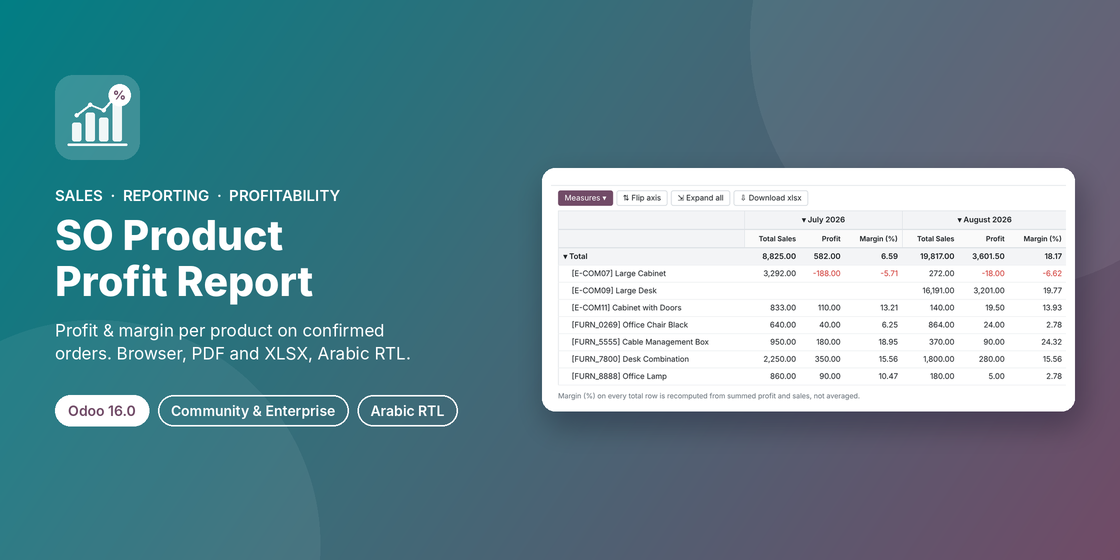
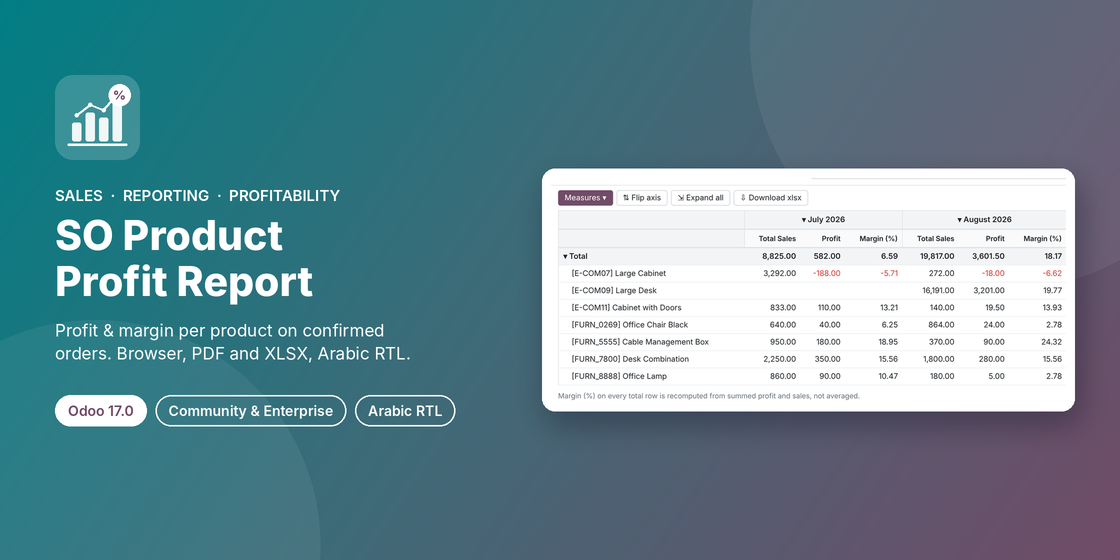
[MIG] so_product_profit_report: migration to 17.0
Claude-Session: https://claude.ai/code/session_0163j7pRJTYiZLoVRUF4UMFU

Changed region(s): [[0.0938, 0.6982, 0.4062, 0.7589], [0.5, 0.2732, 0.6875, 0.3036]]

diff --git a/so_product_profit_report/static/description/index.html b/so_product_profit_report/static/description/index.html
@@ -1,4 +1,4 @@
-<!-- Odoo Apps description page for so_product_profit_report (Odoo 16.0). Inline styles only: apps.odoo.com strips <style> and <script> blocks. -->
+<!-- Odoo Apps description page for so_product_profit_report (Odoo 17.0). Inline styles only: apps.odoo.com strips <style> and <script> blocks. -->
 <section style="max-width:1120px;margin:0 auto;padding:0 16px;font-family:-apple-system,BlinkMacSystemFont,'Segoe UI',Roboto,'Helvetica Neue',Arial,sans-serif;color:#2b2b33;">
 
 <!-- ============================== HERO ============================== -->
@@ -7,9 +7,9 @@
   <h1 style="font-size:40px;line-height:1.15;font-weight:700;margin:0 0 14px;color:#ffffff;">SO Product Profit Report</h1>
   <p style="font-size:19px;line-height:1.55;max-width:760px;margin:0 0 24px;color:#ffffff;opacity:.95;">See exactly how much every product earns on your confirmed sales orders: cost, sale price, profit and margin&nbsp;% per line, with correct subtotals. Open it on screen, print a clean PDF, or export to Excel &ndash; in English or Arabic with full right-to-left layout.</p>
   <div>
-    <span style="display:inline-block;border:1px solid rgba(255,255,255,.7);border-radius:20px;padding:6px 14px;margin:0 8px 8px 0;font-size:14px;">Odoo 16.0</span>
+    <span style="display:inline-block;border:1px solid rgba(255,255,255,.7);border-radius:20px;padding:6px 14px;margin:0 8px 8px 0;font-size:14px;">Odoo 17.0</span>
     <span style="display:inline-block;border:1px solid rgba(255,255,255,.7);border-radius:20px;padding:6px 14px;margin:0 8px 8px 0;font-size:14px;">Community &amp; Enterprise</span>
-    <span style="display:inline-block;border:1px solid rgba(255,255,255,.7);border-radius:20px;padding:6px 14px;margin:0 8px 8px 0;font-size:14px;">22 automated tests</span>
+    <span style="display:inline-block;border:1px solid rgba(255,255,255,.7);border-radius:20px;padding:6px 14px;margin:0 8px 8px 0;font-size:14px;">23 automated tests</span>
     <span style="display:inline-block;border:1px solid rgba(255,255,255,.7);border-radius:20px;padding:6px 14px;margin:0 8px 8px 0;font-size:14px;">Arabic (ar_001) &amp; RTL</span>
     <span style="display:inline-block;border:1px solid rgba(255,255,255,.7);border-radius:20px;padding:6px 14px;margin:0 8px 8px 0;font-size:14px;">Technical name: so_product_profit_report</span>
     <span style="display:inline-block;border:1px solid rgba(255,255,255,.7);border-radius:20px;padding:6px 14px;margin:0 8px 8px 0;font-size:14px;">LGPL-3</span>
@@ -29,7 +29,7 @@
 <p style="font-size:16px;color:#555;margin:0 0 18px;">Standard Odoo knows your cost and your sale price, but turning them into a profit report you can hand to management takes manual work.</p>
 <div style="display:flex;flex-wrap:wrap;margin:0 -10px;">
   <div style="flex:1 1 440px;margin:10px;border:1px solid #f1d6d6;background:#fff8f8;border-radius:14px;padding:24px 26px;">
-    <h3 style="font-size:19px;font-weight:700;color:#b33939;margin:0 0 12px;">In standard Odoo 16</h3>
+    <h3 style="font-size:19px;font-weight:700;color:#b33939;margin:0 0 12px;">In standard Odoo 17</h3>
     <ul style="font-size:15px;line-height:1.65;margin:0;padding-left:20px;color:#3a3a42;">
       <li><b>Sales Analysis</b> shows margin as an amount, without a line-by-line view of <b>cost price, sale price and margin&nbsp;%</b> together.</li>
       <li>There is <b>no printable profit report</b> with company header, KPIs and subtotals.</li>
@@ -141,7 +141,7 @@
   <div style="flex:1 1 320px;margin:8px;padding:16px 18px;border:1px solid #e8e8ee;border-radius:12px;"><b>Multi-company</b><br/><span style="color:#555;">Only companies you are allowed to see; selecting companies with different currencies is refused rather than adding unlike amounts.</span></div>
   <div style="flex:1 1 320px;margin:8px;padding:16px 18px;border:1px solid #e8e8ee;border-radius:12px;"><b>Time zones</b><br/><span style="color:#555;">Start and end dates are whole days in the user&rsquo;s time zone; the end date is inclusive.</span></div>
   <div style="flex:1 1 320px;margin:8px;padding:16px 18px;border:1px solid #e8e8ee;border-radius:12px;"><b>Company customers</b><br/><span style="color:#555;">Filtering on a company also includes orders placed by its contacts.</span></div>
-  <div style="flex:1 1 320px;margin:8px;padding:16px 18px;border:1px solid #e8e8ee;border-radius:12px;"><b>Only real sales</b><br/><span style="color:#555;">Quotations and cancelled orders are excluded, as are section and note lines and down-payment lines.</span></div>
+  <div style="flex:1 1 320px;margin:8px;padding:16px 18px;border:1px solid #e8e8ee;border-radius:12px;"><b>Only real sales</b><br/><span style="color:#555;">Quotations and cancelled orders are excluded, as are section and note lines and down-payment lines. Locked orders are included, and an optional <b>Locked</b> column shows which ones they are.</span></div>
   <div style="flex:1 1 320px;margin:8px;padding:16px 18px;border:1px solid #e8e8ee;border-radius:12px;"><b>Discounts and losses</b><br/><span style="color:#555;">Sale price is net of discount; negative profit and margin are shown in red and findable with <b>Loss Lines</b>.</span></div>
   <div style="flex:1 1 320px;margin:8px;padding:16px 18px;border:1px solid #e8e8ee;border-radius:12px;"><b>Missing cost or zero sales</b><br/><span style="color:#555;"><b>Missing Cost</b> lists lines without a cost; a line with zero sales shows a 0&nbsp;% margin instead of an error.</span></div>
   <div style="flex:1 1 320px;margin:8px;padding:16px 18px;border:1px solid #e8e8ee;border-radius:12px;"><b>Large data</b><br/><span style="color:#555;">PDF and Excel read all lines in a single SQL query that still applies access rights and record rules; an index on order state, date and company is added.</span></div>
@@ -165,13 +165,13 @@
 <h2 style="font-size:28px;font-weight:700;margin:48px 0 6px;color:#2b2b33;">Technical details</h2>
 <table style="width:100%;border-collapse:collapse;font-size:15px;margin-top:12px;">
   <tbody>
-    <tr style="border-bottom:1px solid #eee;"><td style="padding:10px 14px;width:240px;color:#777;vertical-align:top;">Odoo version</td><td style="padding:10px 14px;overflow-wrap:anywhere;word-break:break-word;">16.0, Community and Enterprise</td></tr>
+    <tr style="border-bottom:1px solid #eee;"><td style="padding:10px 14px;width:240px;color:#777;vertical-align:top;">Odoo version</td><td style="padding:10px 14px;overflow-wrap:anywhere;word-break:break-word;">17.0, Community and Enterprise</td></tr>
     <tr style="border-bottom:1px solid #eee;background:#fafafa;"><td style="padding:10px 14px;width:240px;color:#777;vertical-align:top;">Depends on</td><td style="padding:10px 14px;overflow-wrap:anywhere;word-break:break-word;"><code>sale_management</code>, <code>sale_margin</code></td></tr>
     <tr style="border-bottom:1px solid #eee;"><td style="padding:10px 14px;width:240px;color:#777;vertical-align:top;">Python dependency</td><td style="padding:10px 14px;overflow-wrap:anywhere;word-break:break-word;"><code>xlsxwriter</code> (already shipped with Odoo)</td></tr>
     <tr style="border-bottom:1px solid #eee;background:#fafafa;"><td style="padding:10px 14px;width:240px;color:#777;vertical-align:top;">Menus</td><td style="padding:10px 14px;overflow-wrap:anywhere;word-break:break-word;">Sales &rsaquo; Reporting &rsaquo; Product Profit Report</td></tr>
     <tr style="border-bottom:1px solid #eee;"><td style="padding:10px 14px;width:240px;color:#777;vertical-align:top;">Settings</td><td style="padding:10px 14px;overflow-wrap:anywhere;word-break:break-word;">None needed. Paper format <b>SO Product Profit (A4 Landscape)</b> can be adjusted in Settings &rsaquo; Technical &rsaquo; Paper Format if your header is unusually tall.</td></tr>
     <tr style="border-bottom:1px solid #eee;background:#fafafa;"><td style="padding:10px 14px;width:240px;color:#777;vertical-align:top;">Models</td><td style="padding:10px 14px;overflow-wrap:anywhere;word-break:break-word;"><code>so.product.profit.wizard</code> (wizard), <code>so.product.profit.report</code> (read-only SQL view), <code>report.so_product_profit_report.report_so_product_profit</code> (PDF)</td></tr>
-    <tr style="border-bottom:1px solid #eee;"><td style="padding:10px 14px;width:240px;color:#777;vertical-align:top;">Automated tests</td><td style="padding:10px 14px;overflow-wrap:anywhere;word-break:break-word;">22 <code>TransactionCase</code> tests: wizard defaults and validation, line and total math, weighted subtotals, pivot recomputation, multi-currency, customer, date and time-zone filters, cancelled orders, browser / PDF / XLSX outputs, Arabic translation and RTL</td></tr>
+    <tr style="border-bottom:1px solid #eee;"><td style="padding:10px 14px;width:240px;color:#777;vertical-align:top;">Automated tests</td><td style="padding:10px 14px;overflow-wrap:anywhere;word-break:break-word;">23 <code>TransactionCase</code> tests: wizard defaults and validation, line and total math, weighted subtotals, pivot recomputation, multi-currency, customer, date and time-zone filters, cancelled and locked orders, browser / PDF / XLSX outputs, Arabic translation and RTL</td></tr>
     <tr style="border-bottom:1px solid #eee;background:#fafafa;"><td style="padding:10px 14px;width:240px;color:#777;vertical-align:top;">Translations</td><td style="padding:10px 14px;overflow-wrap:anywhere;word-break:break-word;">Arabic (<code>ar_001</code>) included; <code>.pot</code> template for other languages</td></tr>
     <tr style="border-bottom:1px solid #eee;"><td style="padding:10px 14px;width:240px;color:#777;vertical-align:top;">License</td><td style="padding:10px 14px;overflow-wrap:anywhere;word-break:break-word;">LGPL-3</td></tr>
   </tbody>

diff --git a/so_product_profit_report/models/so_product_profit_report.py b/so_product_profit_report/models/so_product_profit_report.py
@@ -20,8 +20,8 @@ class SoProductProfitReport(models.Model):
     date_order = fields.Datetime(string='Order Date', readonly=True)
     state = fields.Selection([
         ('sale', 'Sales Order'),
-        ('done', 'Locked'),
     ], string='Status', readonly=True)
+    locked = fields.Boolean(string='Locked', readonly=True)
     partner_id = fields.Many2one('res.partner', string='Customer', readonly=True)
     commercial_partner_id = fields.Many2one(
         'res.partner', string='Customer Entity', readonly=True)
@@ -63,6 +63,7 @@ class SoProductProfitReport(models.Model):
             s.name AS order_reference,
             s.date_order AS date_order,
             s.state AS state,
+            COALESCE(s.locked, FALSE) AS locked,
             s.partner_id AS partner_id,
             partner.commercial_partner_id AS commercial_partner_id,
             s.user_id AS user_id,
@@ -100,7 +101,7 @@ class SoProductProfitReport(models.Model):
     @api.model
     def _where_sql(self):
         return """
-            s.state IN ('sale', 'done')
+            s.state = 'sale'
             AND l.display_type IS NULL
             AND COALESCE(l.is_downpayment, FALSE) = FALSE
         """
@@ -114,14 +115,16 @@ class SoProductProfitReport(models.Model):
                 WHERE {self._where_sql()}
             )
         """)
-        # Indexes used by the date/company/state filter of the view.
+        # Index used by the date/company/state filter of the view.
         self.env.cr.execute("""
             CREATE INDEX IF NOT EXISTS sale_order_sopr_state_date_company_idx
             ON sale_order (state, date_order, company_id)
         """)
 
     # ------------------------------------------------------------------
-    # Aggregation: ratios must be recomputed from sums, never averaged
+    # Aggregation: ratios must be recomputed from sums, never averaged.
+    # In 17.0 the list/pivot/graph views still go through web_read_group ->
+    # read_group, so this public override is the right hook.
     # ------------------------------------------------------------------
     @api.model
     def read_group(self, domain, fields, groupby, offset=0, limit=None,

diff --git a/so_product_profit_report/wizard/so_product_profit_wizard.py b/so_product_profit_report/wizard/so_product_profit_wizard.py
@@ -64,7 +64,8 @@ class SoProductProfitWizard(models.TransientModel):
         help='Leave empty for all customers. Orders of child contacts are included.')
     company_ids = fields.Many2many(
         'res.company', string='Companies', required=True,
-        default=lambda self: self.env.companies)
+        default=lambda self: self.env.companies,
+        domain=lambda self: [('id', 'in', self.env.companies.ids)])
     group_by = fields.Selection([
         ('none', 'No Grouping'),
         ('customer', 'Customer'),
@@ -136,15 +137,19 @@ class SoProductProfitWizard(models.TransientModel):
         query = Report._search(
             self._get_report_domain(),
             order='date_order asc, order_reference asc, id asc')
-        table = Report._table
-        query_str, params = query.select(
-            *('"%s"."%s"' % (table, col) for col in REPORT_COLUMNS))
-        self.env.cr.execute(query_str, params)
+        columns = ['"%s"."%s"' % (Report._table, col) for col in REPORT_COLUMNS]
+        # 17.0: Query.select() returns an SQL object that cr.execute() accepts
+        # directly; 16.0 returned a (query_str, params) tuple.
+        sql = query.select(*columns)
+        if isinstance(sql, tuple):
+            self.env.cr.execute(*sql)
+        else:
+            self.env.cr.execute(sql)
         return self.env.cr.dictfetchall()
 
     @api.model
     def _format_margin(self, margin):
-        # Formatted in Python: QWeb collapses '%%' inside t-esc expressions.
+        # Formatted in Python: QWeb collapses '%%' inside t-out expressions.
         return '{:.2f} %'.format(margin or 0.0)
 
     @api.model

diff --git a/so_product_profit_report/tests/test_so_product_profit_report.py b/so_product_profit_report/tests/test_so_product_profit_report.py
@@ -247,6 +247,18 @@ class TestSoProductProfitReport(TransactionCase):
         data = self._wizard()._get_report_data()
         self.assertNotIn(self.order_2.name, {l['order'] for l in data['lines']})
 
+    def test_24_locked_orders_are_included(self):
+        # 17.0: locking keeps state 'sale' and sets the 'locked' flag
+        # (16.0 used the 'done' state instead).
+        self.order_1.action_lock()
+        self.assertTrue(self.order_1.locked)
+        self.assertEqual(self.order_1.state, 'sale')
+        data = self._wizard()._get_report_data()
+        self.assertIn(self.order_1.name, {l['order'] for l in data['lines']})
+        rows = self.env['so.product.profit.report'].search(
+            [('order_id', '=', self.order_1.id)])
+        self.assertTrue(rows and all(rows.mapped('locked')))
+
     # ------------------------------------------------------------------
     # Outputs
     # ------------------------------------------------------------------

diff --git a/so_product_profit_report/__manifest__.py b/so_product_profit_report/__manifest__.py
@@ -1,7 +1,7 @@
 # -*- coding: utf-8 -*-
 {
     'name': 'SO Product Profit Report',
-    'version': '16.0.1.0.0',
+    'version': '17.0.1.0.0',
     'category': 'Sales/Sales',
     'summary': 'Product profit & margin report on confirmed sales orders: '
                'browser (list/pivot), modern PDF and XLSX, Arabic RTL.',

diff --git a/README.md b/README.md
@@ -1,6 +1,6 @@
 # SO Product Profit Report
 
-**Odoo 16.0 · Community & Enterprise · LGPL-3**
+**Odoo 17.0 · Community & Enterprise · LGPL-3**
 
 Product profit and margin on confirmed sales orders, with a wizard under
 **Sales › Reporting › Product Profit Report**. Show the result on screen
@@ -15,8 +15,8 @@ One branch per supported Odoo version. Use the branch that matches your Odoo.
 
 | Branch | Odoo | Notes |
 |---|---|---|
-| [`16.0`](../../tree/16.0) | Odoo 16.0 | Original release. |  ⬅ this branch
-| [`17.0`](../../tree/17.0) | Odoo 17.0 | Locked orders use the new `locked` flag (17.0 dropped the `done` state); optional **Locked** column; `t-out` in the PDF; `column_invisible` in the list. |
+| [`16.0`](../../tree/16.0) | Odoo 16.0 | Original release. |
+| [`17.0`](../../tree/17.0) | Odoo 17.0 | Locked orders use the new `locked` flag (17.0 dropped the `done` state); optional **Locked** column; `t-out` in the PDF; `column_invisible` in the list. |  ⬅ this branch
 | [`18.0`](../../tree/18.0) | Odoo 18.0 | `<tree>` → `<list>`, `view_mode` `list`, `group_operator` → `aggregator`. |
 | [`19.0`](../../tree/19.0) | Odoo 19.0 | Weighted ratios computed in SQL via `_read_group_select` (19.0 groups through `formatted_read_group`); `product_uom` → `product_uom_id` handled; `self.env._()` for translations. |
 
@@ -72,9 +72,9 @@ section/note lines and down payments are excluded.
 
 ## Tests
 
-22 `TransactionCase` tests: wizard validation, line and total math, weighted
+23 `TransactionCase` tests: wizard validation, line and total math, weighted
 subtotals, grouping ratios, multi-currency, customer/date/time-zone filters,
-cancelled orders, browser/PDF/XLSX outputs, Arabic translation and RTL.
+cancelled and locked orders, browser/PDF/XLSX outputs, Arabic translation and RTL.
 
 ```
 odoo-bin -d <db> -i so_product_profit_report --test-tags /so_product_profit_report --stop-after-init
